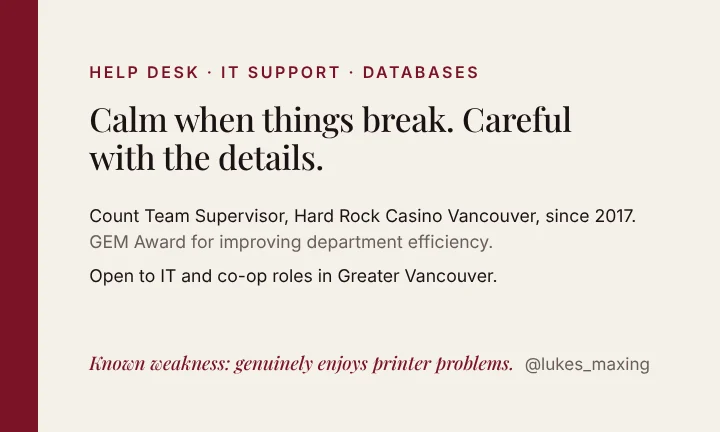
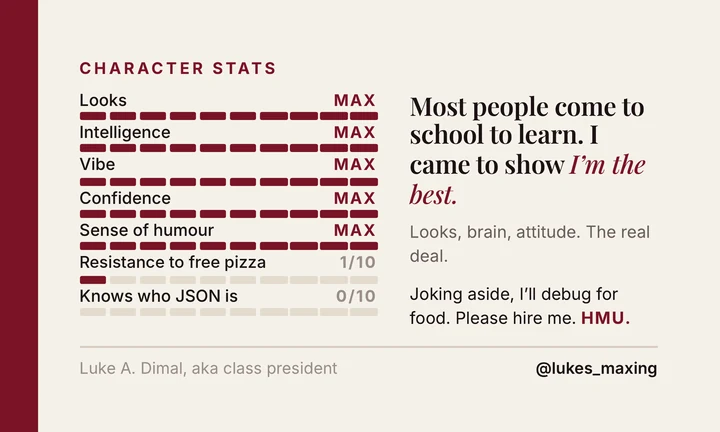
Footer card preview: use the printed Character Stats back (#27)
The flipping card now shows the back Luke printed instead of the
Option A back. The front was already the printed front.

Claude-Session: https://claude.ai/code/session_019XFjLjvysgUxnMZ8M4fH9o

Changed region(s): [[0.0917, 0.2106, 0.9167, 0.7523], [0.0917, 0.7824, 0.9167, 0.8727], [0.0917, 0.1204, 0.6722, 0.1806]]

diff --git a/index.html b/index.html
@@ -2786,7 +2786,7 @@ html.ri-pre::after{content:"";position:fixed;inset:0;z-index:94;background:#1206
           <button type="button" class="sf-flip" id="sfFlip" aria-label="Luke's networking card. Tap to flip it.">
             <span class="sf-flip-in">
               <img class="sf-face" src="img/luke-card-front-sm.webp" alt="Front of Luke A. Dimal's networking card: CIT student at BCIT, Set B class rep, ISSP project Robin for Pare Dating, email, LinkedIn, Instagram and a QR code to this site." width="720" height="432" loading="lazy" decoding="async">
-              <img class="sf-face sf-back" src="img/luke-card-back.webp" alt="Back of the card: help desk, IT support and databases. Calm when things break, careful with the details. Count Team Supervisor at Hard Rock Casino Vancouver since 2017, GEM Award, open to IT and co-op roles in Greater Vancouver." width="720" height="432" loading="lazy" decoding="async">
+              <img class="sf-face sf-back" src="img/luke-card-back.webp?v=2" alt="Back of the card, Character Stats: looks, intelligence, vibe, confidence and sense of humour all MAX, resistance to free pizza 1/10, knows who JSON is 0/10. Most people come to school to learn. I came to show I&rsquo;m the best. Joking aside, I&rsquo;ll debug for food. Please hire me. HMU. @lukes_maxing" width="720" height="432" loading="lazy" decoding="async">
             </span>
           </button>
           <figcaption>Saw my networking card? <b>Ask for one!</b></figcaption>
